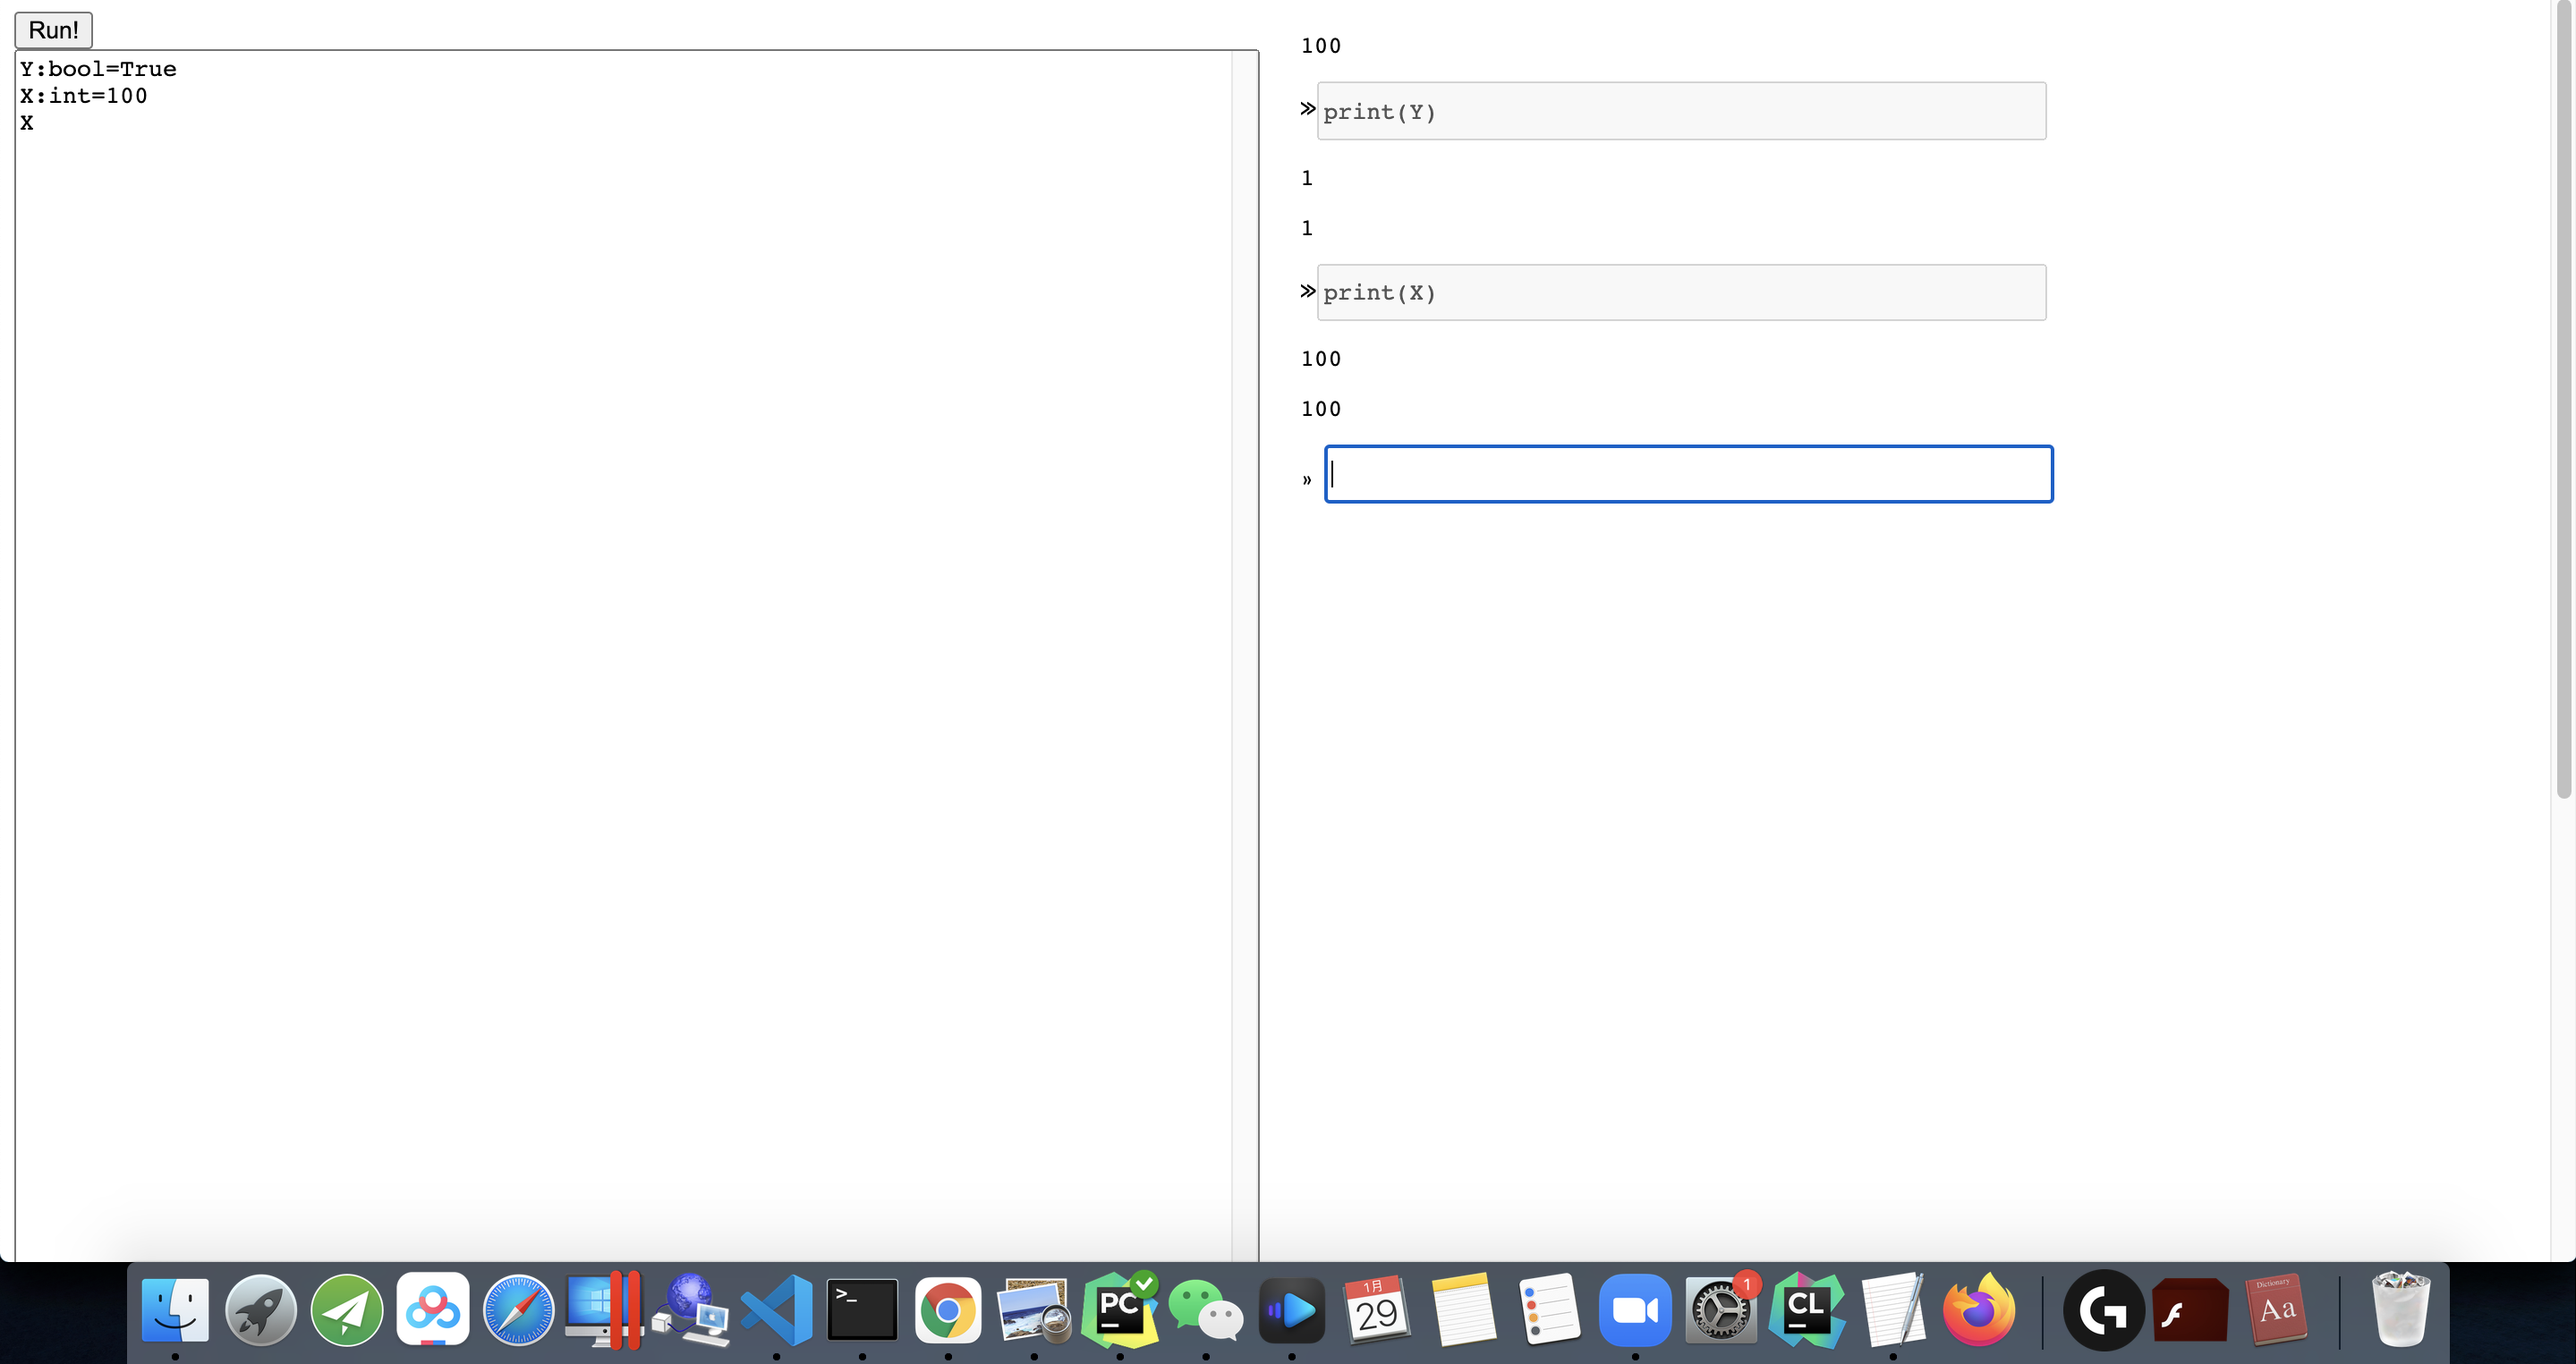
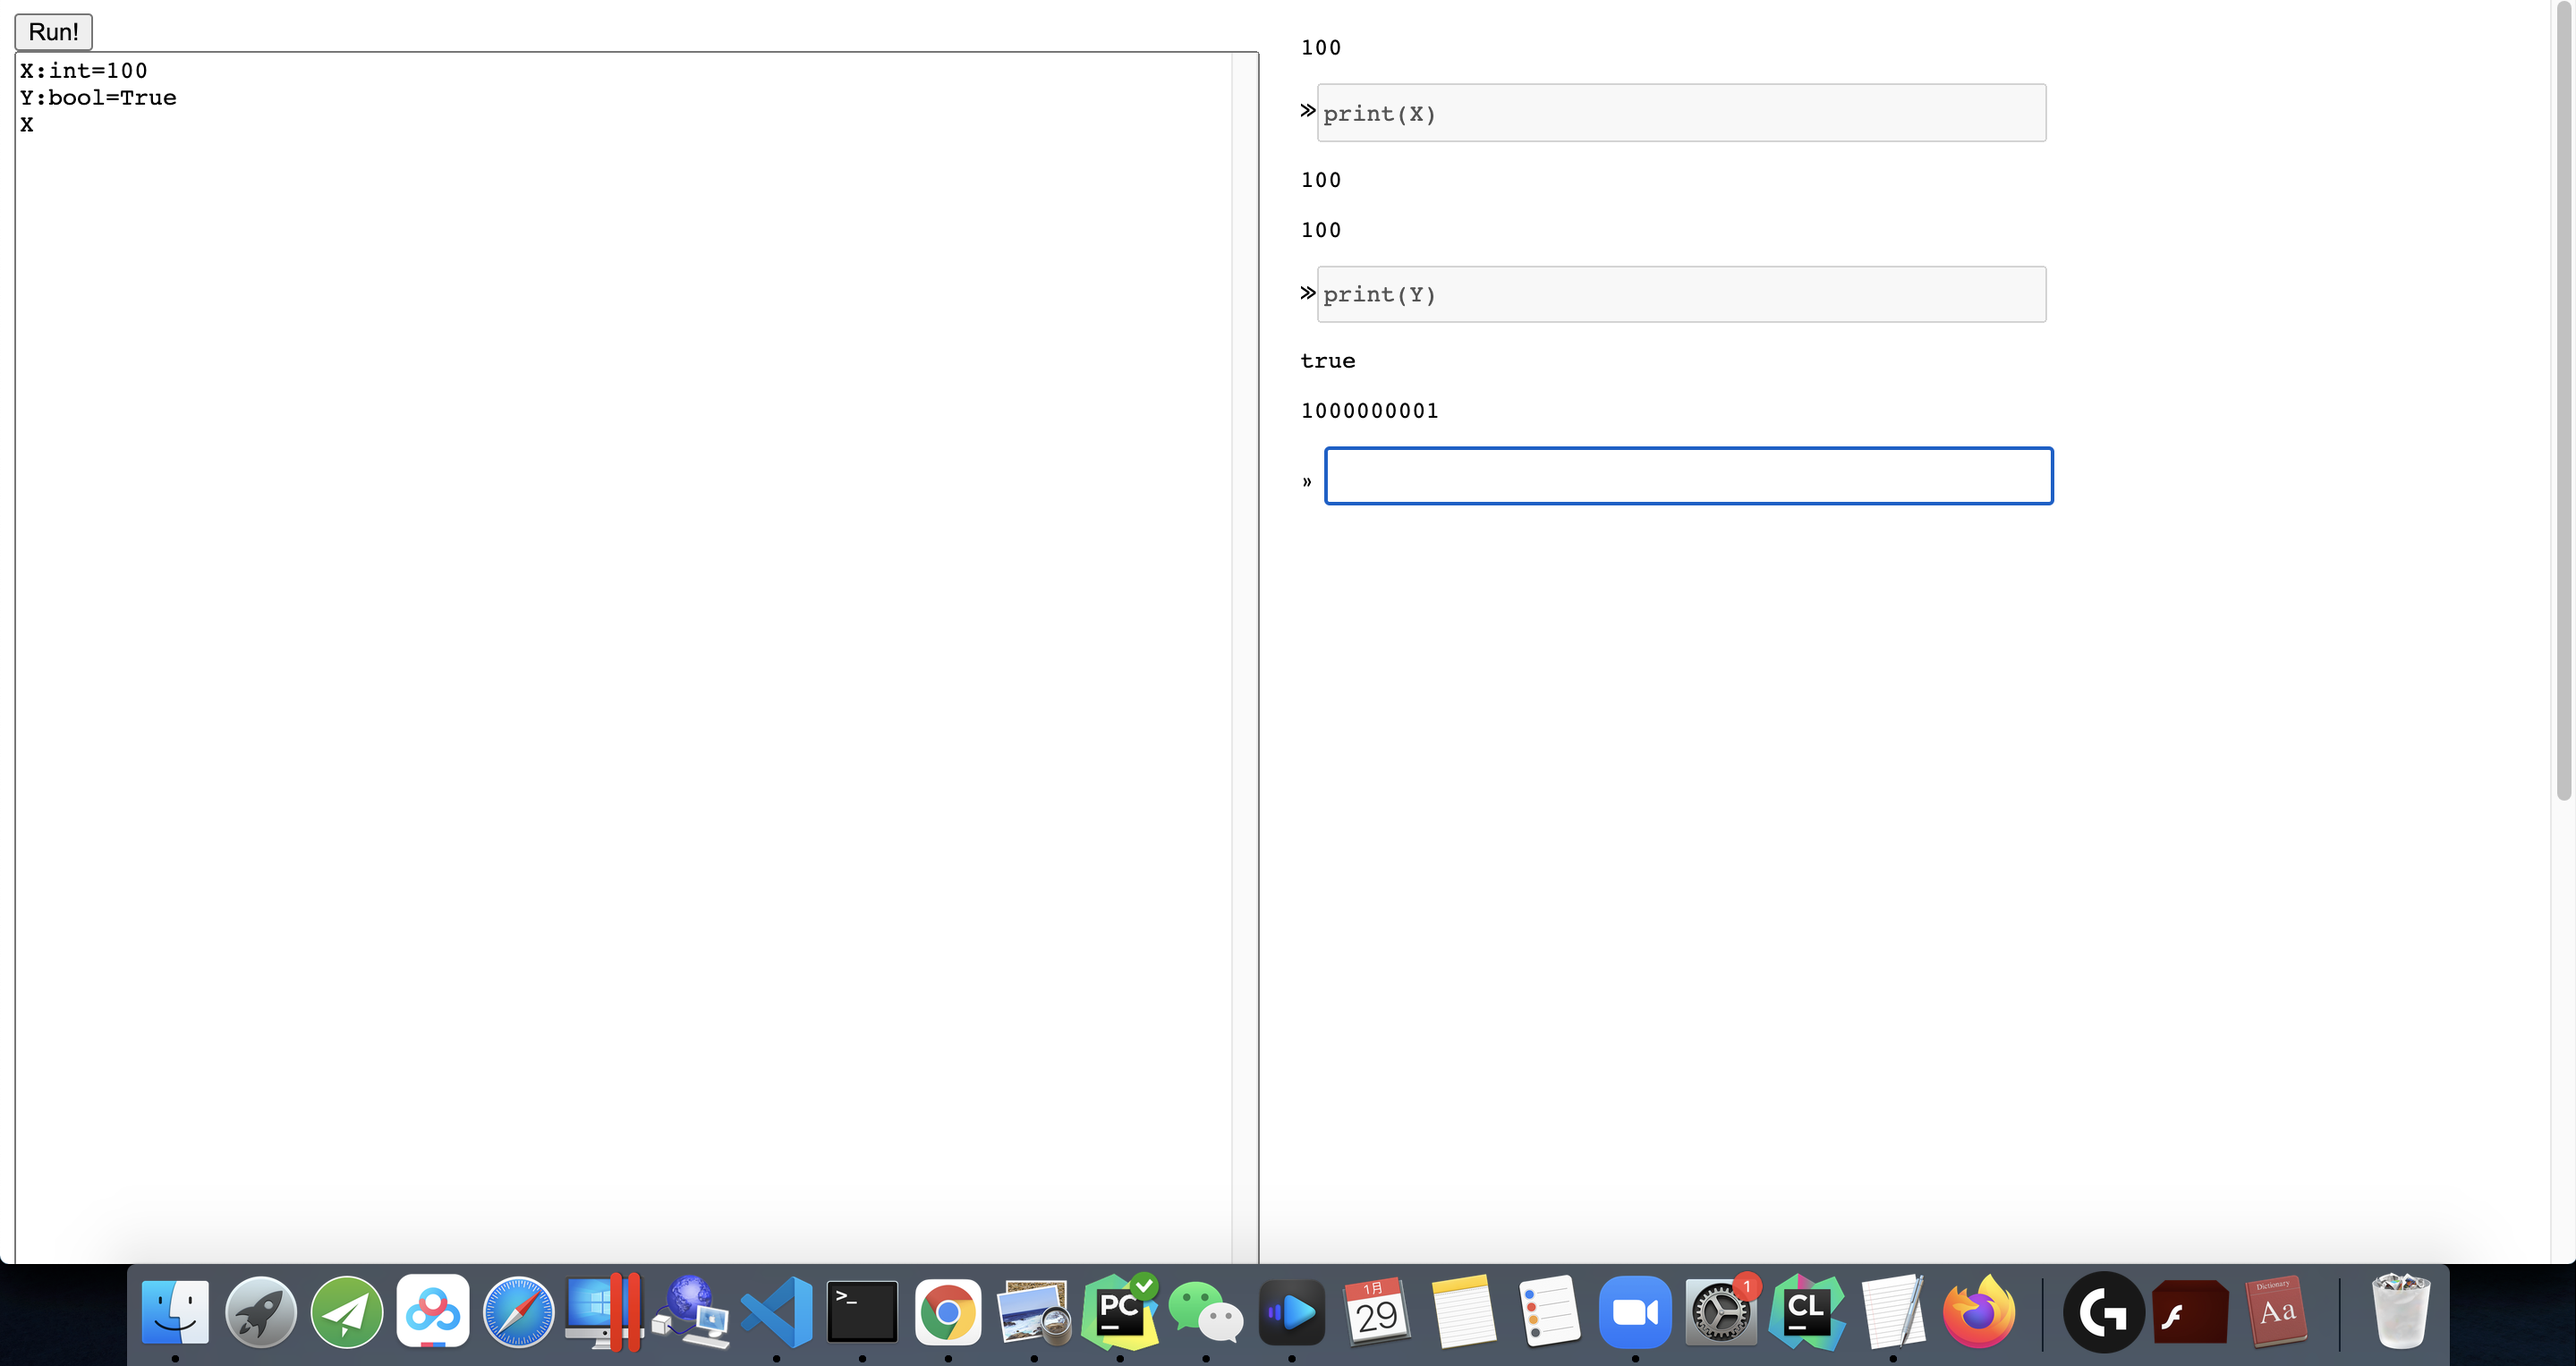
comment for 4-6

diff --git a/compiler.ts b/compiler.ts
@@ -363,7 +363,10 @@ function codeGenExpr(expr : Expr, env:Scope) : Array<string> {
         if (expr.args[0].type=='none')
           throw new Error(`printing none`)
         const argCode = codeGenExpr(expr.args[0], env)
-        return argCode.concat([`(call $print)`])
+        if (expr.args[0].type=='int')
+          return argCode.concat([`(call $print)`])
+        if (expr.args[0].type=='bool')
+          return argCode.concat([`(i32.const 1000000000)`,`(i32.add)`,`(call $print)`])
       }
       const func = env.getFunc(expr.name)
       if (func.argList.length != expr.args.length) {

diff --git a/webstart.ts b/webstart.ts
@@ -9,10 +9,14 @@ function webStart() {
     var importObject = {
       imports: {
         print: (arg : any) => {
-          console.log("Logging from WASM: ", arg);
+          let output=''
+          if(arg>1000000000)
+            output=((arg%1000000000)==1).toString()
+          else
+            output=(arg%1000000000).toString()
           const elt = document.createElement("pre");
           document.getElementById("output").appendChild(elt);
-          elt.innerText = arg;
+          elt.innerText = output;
           return arg;
         },
         abs: (arg : any) => {

diff --git a/README.md b/README.md
@@ -201,8 +201,6 @@ print(X)
 ```
 ![ScreenShot](images/4-6.png)
 
-Note: I use 0/1 representation for bools for simplicity. The string representation can be acquired by having some sort of convention about type representation in WASM (e.g. top 32-bit is 1), and then do post-processing in TypeScript before output to screen.
-
 ## 4.7 Recursive Function
 ```
 def countDown(X:int) -> int:
